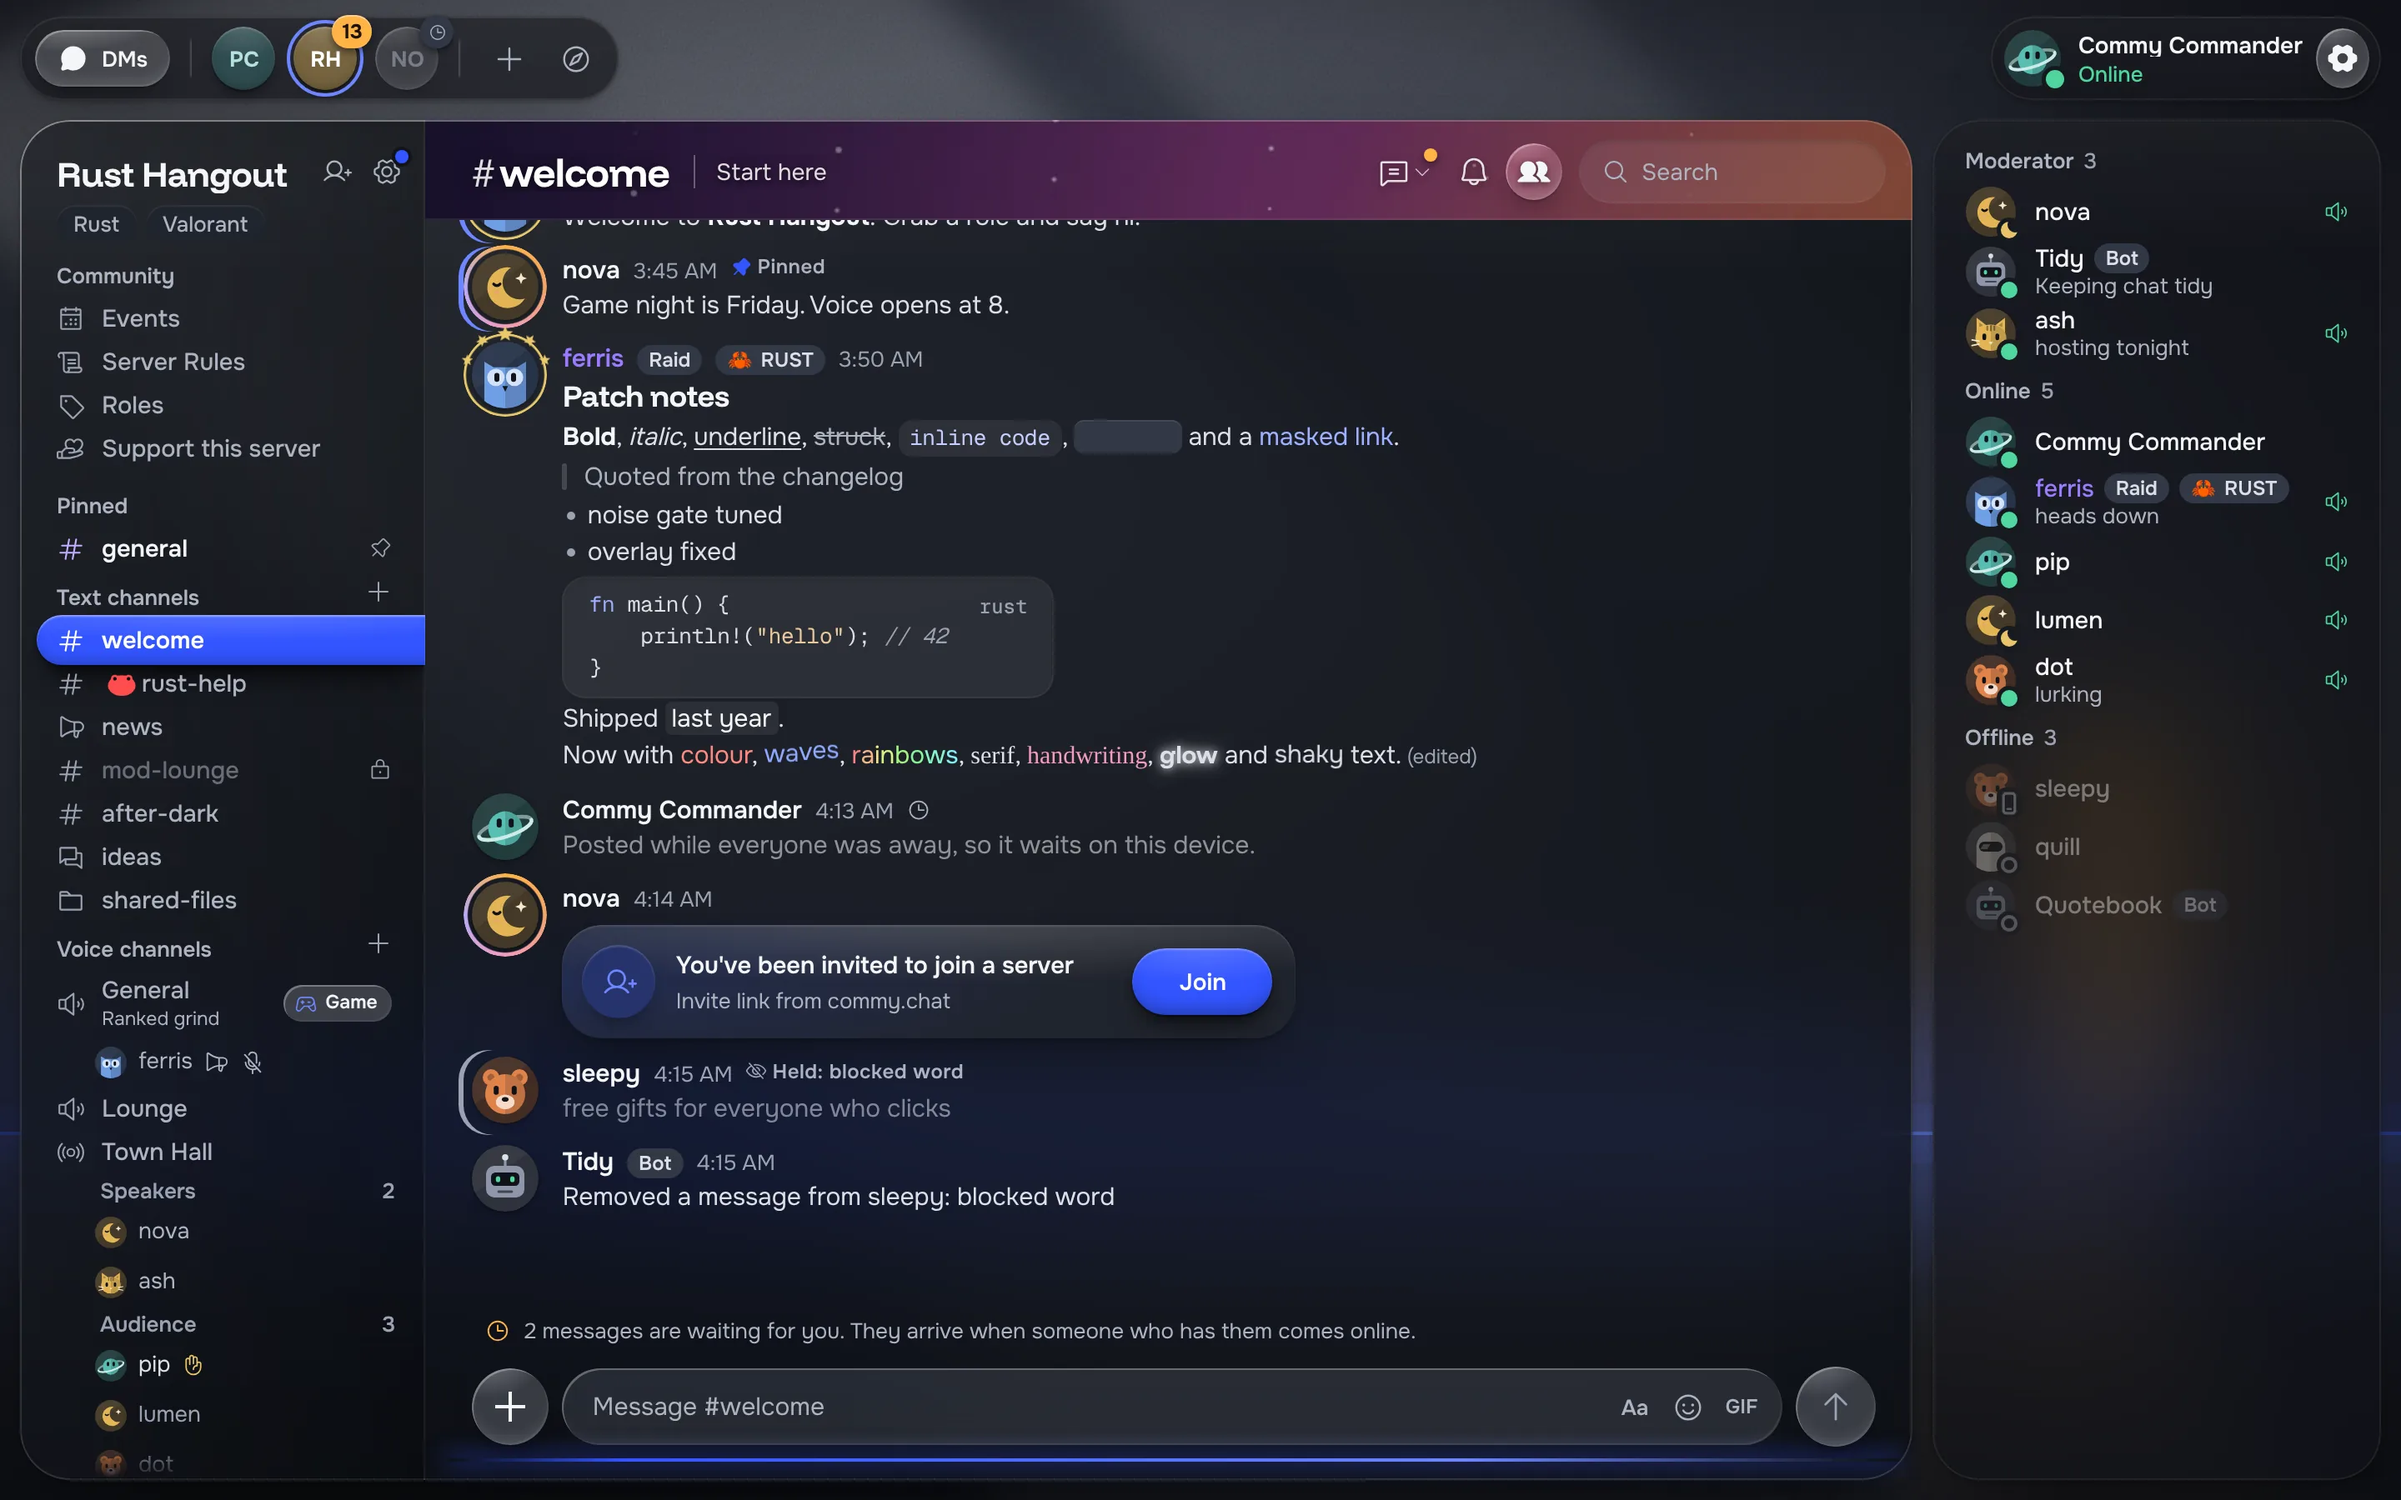
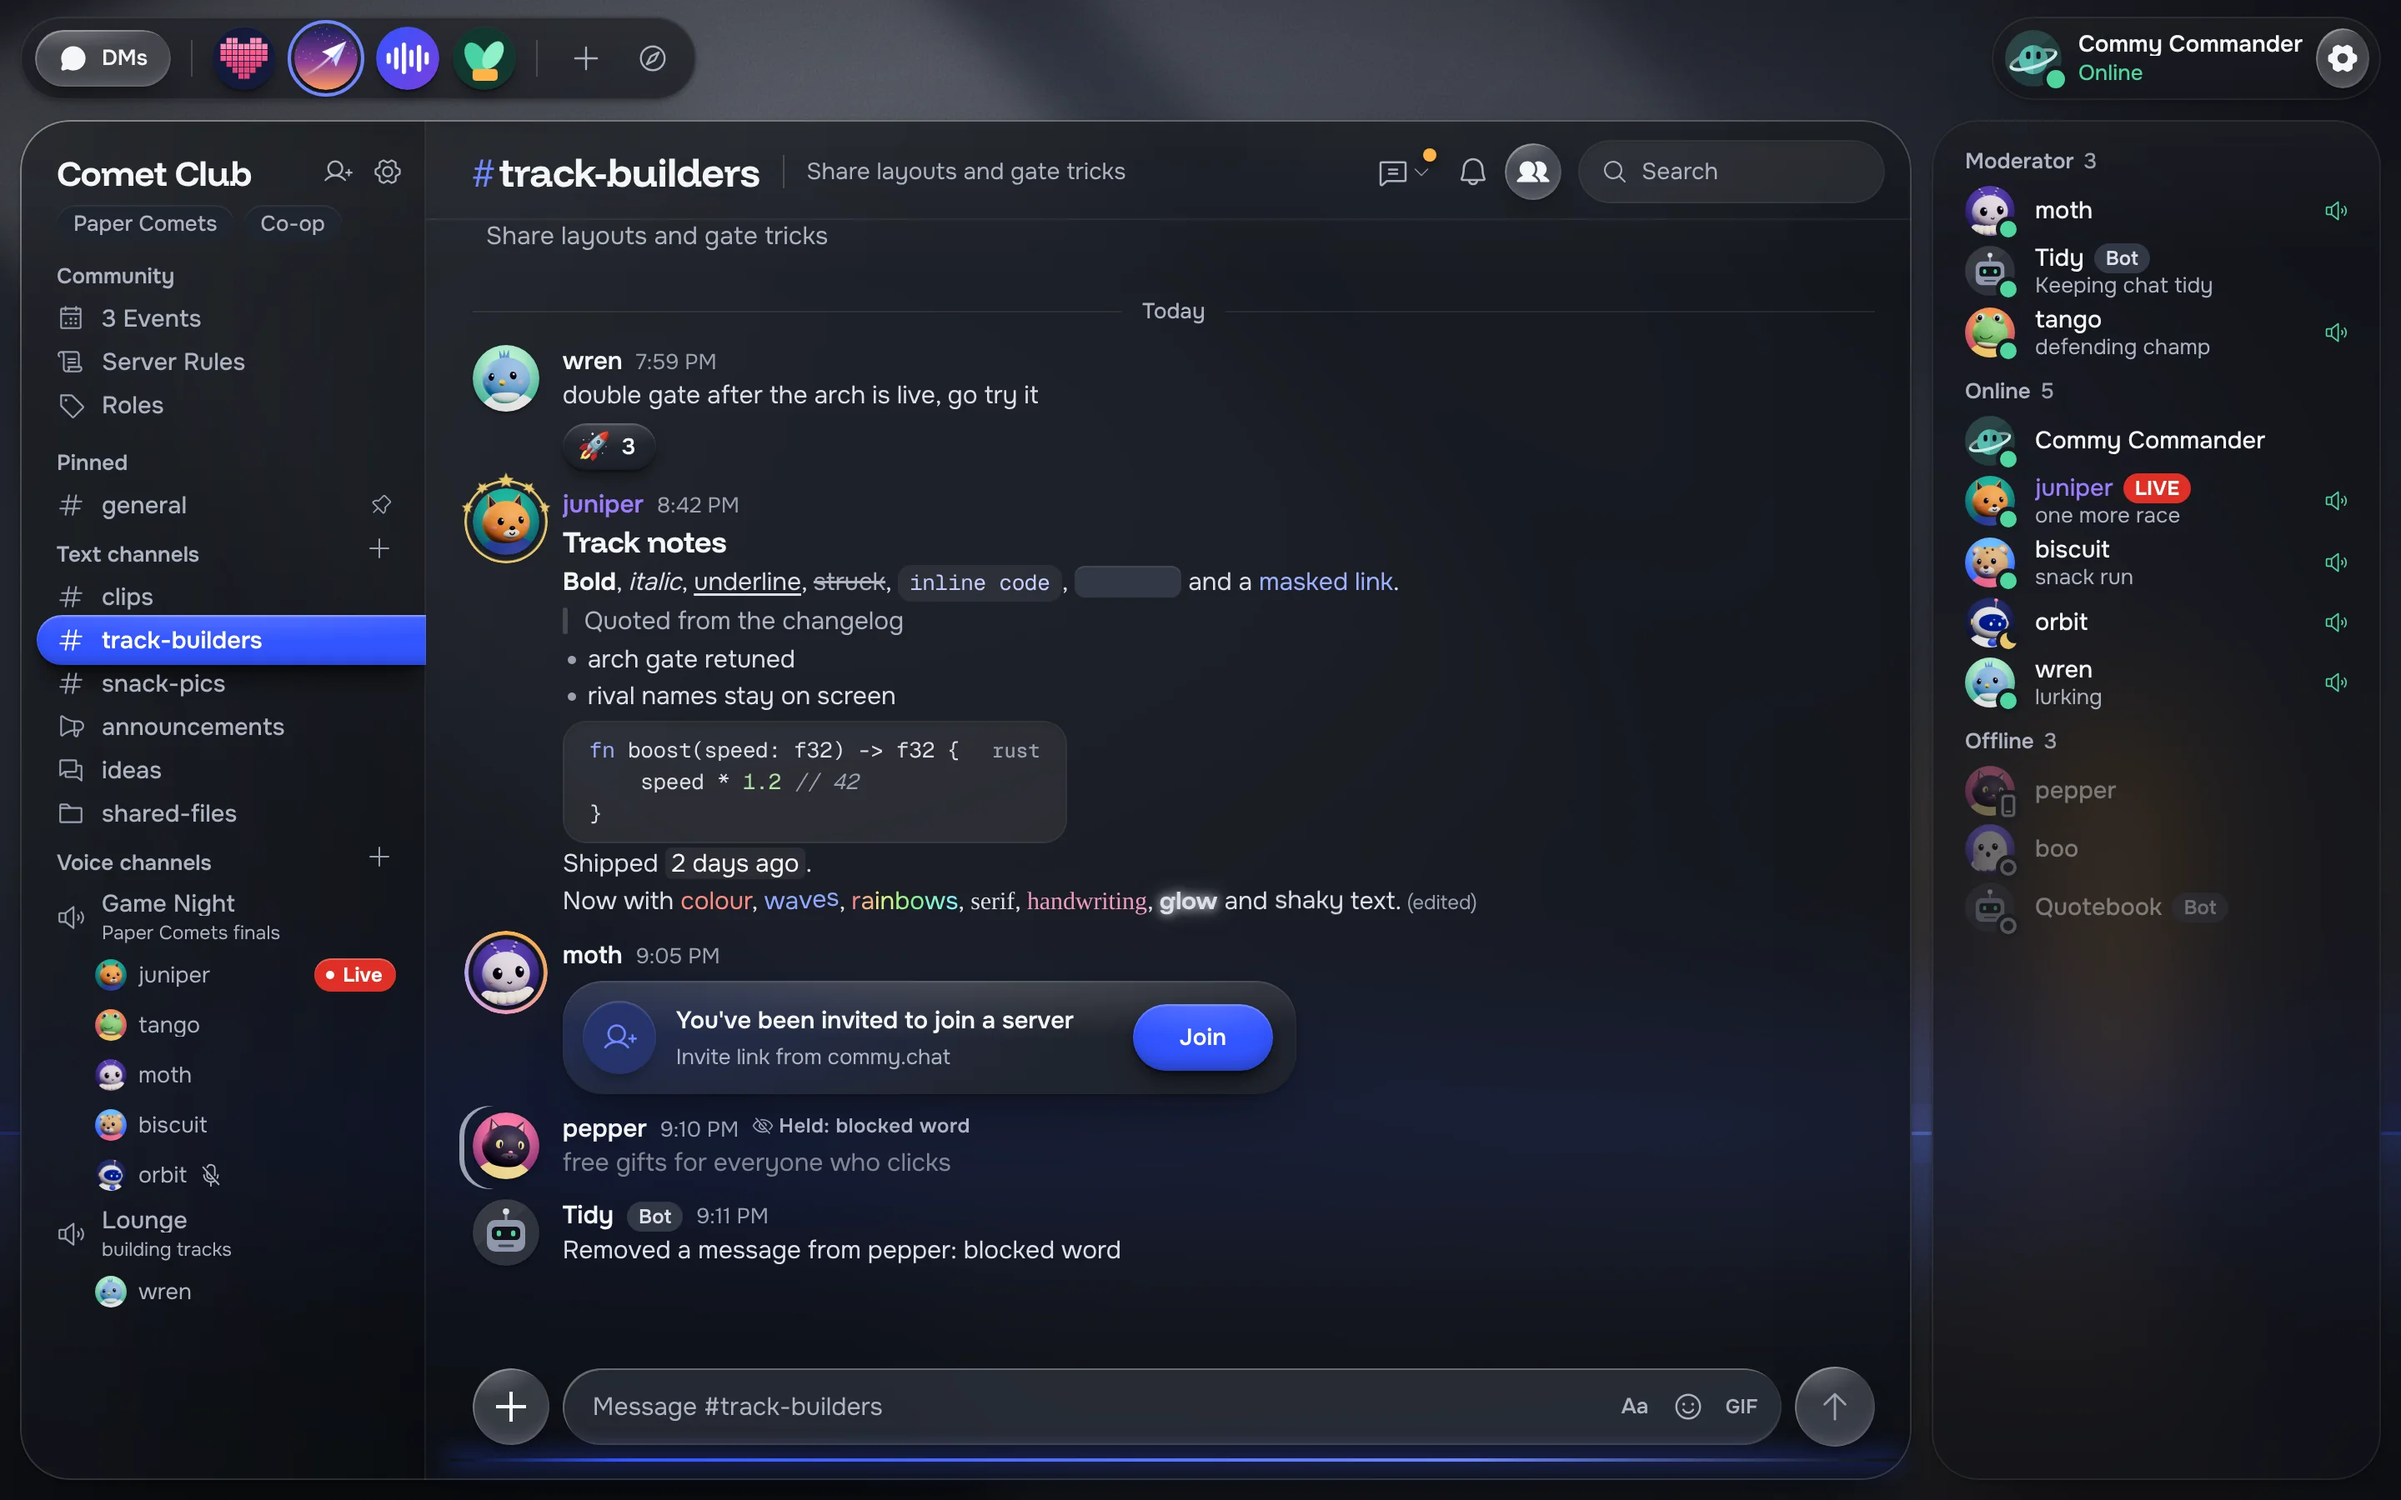
docs(readme): re-shoot the rich text screenshot in the demo server (#469)

diff --git a/README.md b/README.md
@@ -90,7 +90,7 @@ free to use, open source from top to bottom, and yours to host if you want.
 
 <table>
   <tr>
-    <td width="50%"><img src="docs/images/readme/rich-text-chat.webp" alt="A Commy text channel with formatted patch notes, a code block, an invite card and an auto moderation notice"></td>
+    <td width="50%"><img src="docs/images/readme/rich-text-chat.webp" alt="A Commy text channel with formatted track notes, a code block, an invite card and an auto moderation notice"></td>
     <td width="50%"><img src="docs/images/readme/voice-and-streaming.webp" alt="A Commy voice room watching a member stream a sky race, with the channel chat cheering beside it"></td>
   </tr>
   <tr>
